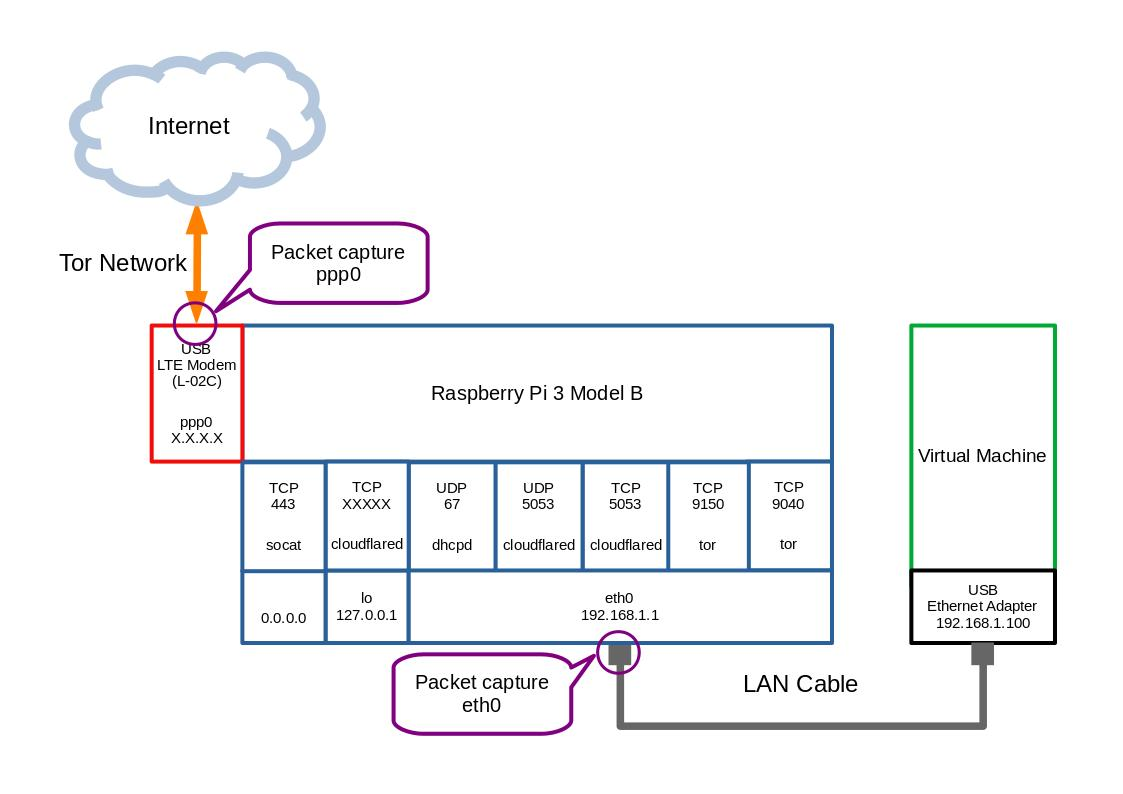
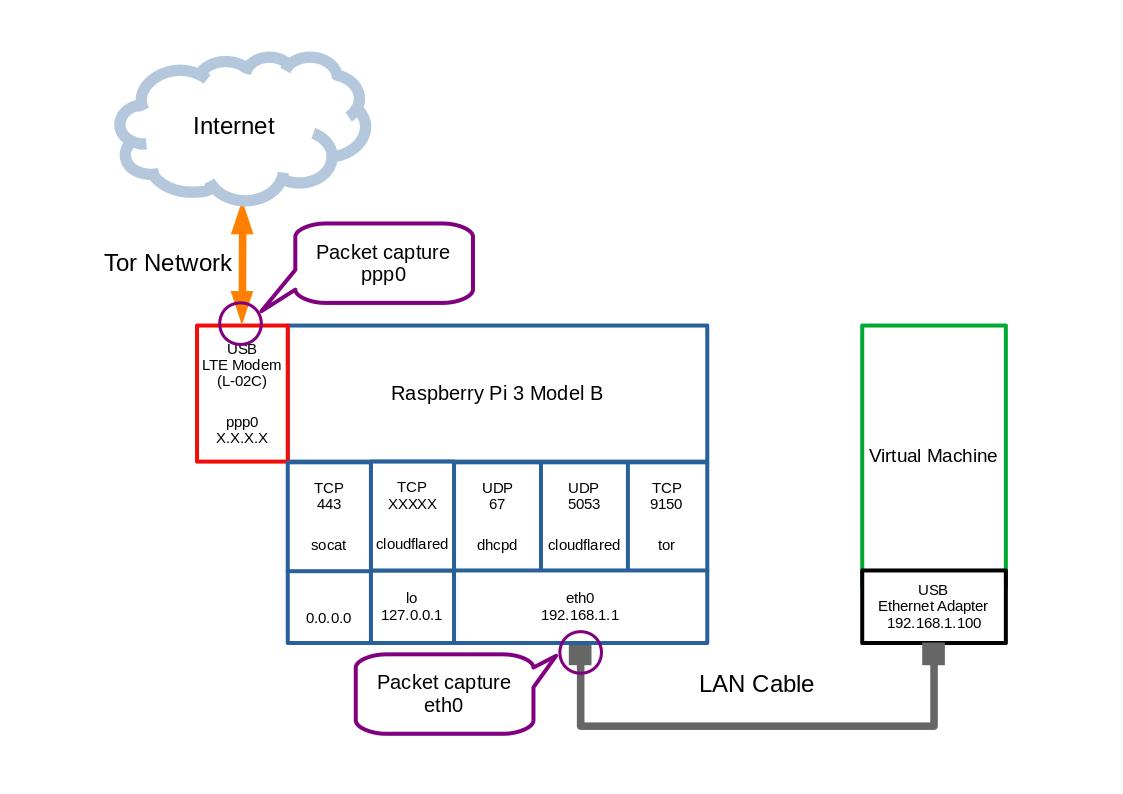
delete tcp9040 port

Changed region(s): [[0.0623, 0.0605, 0.9662, 0.937], [0.3428, 0.4836, 0.5922, 0.5139], [0.6233, 0.8463, 0.7792, 0.8766]]

diff --git a/README.md b/README.md
@@ -6,7 +6,6 @@
 - Packet Flow
     - Virtual Machine <=> Raspberry Pi
         - TCP Packet
-            - USB Ethernet Adapter <= TCP => eth0 TCP <= redirect => eth0 TCP9040(tor transport)
             - USB Ethernet Adapter <= TCP => eth0 TCP9150(tor socksport)
         - DNS Packet
             - USB Ethernet Adapter <= DNS => eth0 UDP53 <= redirect => eth0 UDP5053(cloudflared)
@@ -366,7 +365,7 @@
         # INPUT eth0
         -A INPUT -i eth0 -d 192.168.1.1 -m multiport -p udp --dports 5053 -j ACCEPT
         -A INPUT -i eth0 -d 192.168.1.1 -p udp --dport 67 -j ACCEPT
-        -A INPUT -i eth0 -m multiport -p tcp --dports 9040,9150 -j ACCEPT
+        -A INPUT -i eth0 -m multiport -p tcp --dports 9150 -j ACCEPT
         -A INPUT -i eth0 -j DROP
 
         # INPUT ppp0
@@ -395,10 +394,6 @@
         :OUTPUT ACCEPT [0:0]
 
         -A PREROUTING -i eth0 -d 192.168.1.1 -p udp --dport 53 -j REDIRECT --to-ports 5053
-        -A PREROUTING -i eth0 ! -d 192.168.1.1 -p tcp --dport 443 --syn -j REDIRECT --to-ports 9040
-        #-A PREROUTING -i eth0 ! -d 192.168.1.1 -p tcp --dport 443 --syn -j REDIRECT --to-ports 9150
-        #-A PREROUTING -i eth0 ! -d 192.168.1.1 -p tcp --syn -j REDIRECT --to-ports 9040
-        #-A PREROUTING -i eth0 ! -d 192.168.1.1 -p tcp --syn -j REDIRECT --to-ports 9150
 
         COMMIT
 
@@ -500,7 +495,7 @@
     ````
 - Run tor on docker
     ````
-    sudo docker run -d --name tor -p 192.168.1.1:9040:9040 -p 192.168.1.1:9150:9150 tor:latest
+    sudo docker run -d --name tor -p 192.168.1.1:9150:9150 tor:latest
     sudo docker ps -a
     ````
 - Run toCloudflare.service
